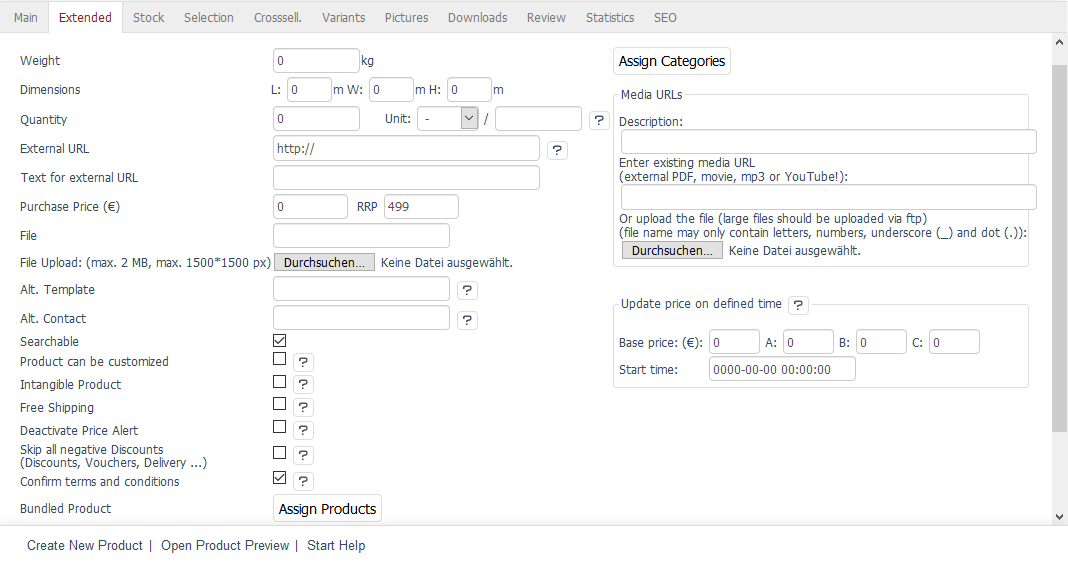
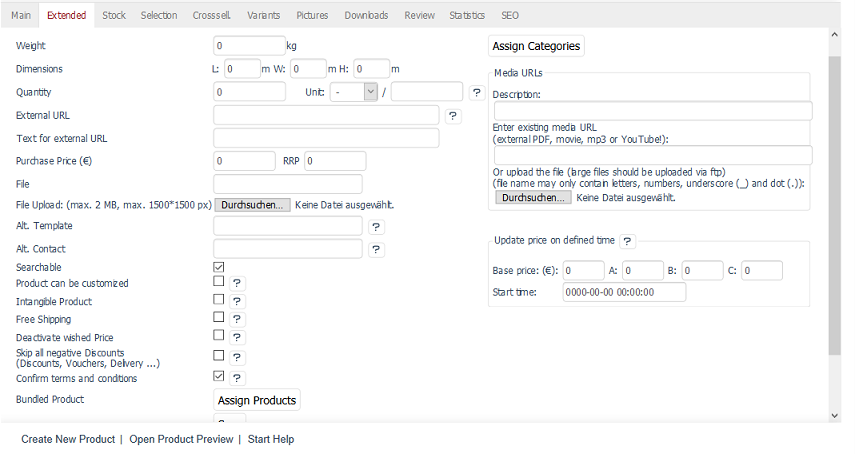
Replaced price alarm with wished price

diff --git a/setup/products/extended-tab.rst b/setup/products/extended-tab.rst
@@ -5,7 +5,7 @@ The :guilabel:`Extended` tab allows you to set specific product characteristics 
 
 .. image:: ../../media/screenshots/oxbacj01.png
    :alt: Products - Extended tab
-   :height: 343
+   :height: 345
    :width: 650
 
 :guilabel:`Weight`
@@ -60,10 +60,12 @@ The :guilabel:`Extended` tab allows you to set specific product characteristics 
 :guilabel:`Free Shipping`
    If this box is checked, the product won’t be included in the shipping cost calculation. However, even when this product is added to the shopping cart together with other products, this doesn’t mean that the entire order will ship for free.
 
-:guilabel:`Deactivate Price Alert`
-   Customers can use the price alert in the product’s detailed view by entering a price at which they would buy the product.
+:guilabel:`Deactivate wished Price`
+   Customers can use the wished price function in the product’s detailed view by entering a price at which they would buy the product. Customer enquiries are collected under :menuselection:`Customer Info --> Price Alert` in the Admin panel. The shop owner can notify the customer by e-mail, prepared by the shop, once the desired price has been reached. Use this field to turn off the wished price for a specific product.
 
-   Customer enquiries are collected under :menuselection:`Customer Info --> Price Alert` in the Admin panel. The shop owner can notify the customer by e-mail, prepared by the shop, once the desired price has been reached. Use this field to turn off the price alert function for a specific product.
+The function can also be globally enabled or disabled for the shop in the :guilabel:`Functions` section of the theme’s settings.
+
+Until OXID eShop 6.2.1, wished price was called price alert.
 
 :guilabel:`Skip all negative Discounts (Discounts, Vouchers, Delivery ...)`
    If this box is checked, no negative discounts, such as discounts and coupons, will be calculated for this product.
